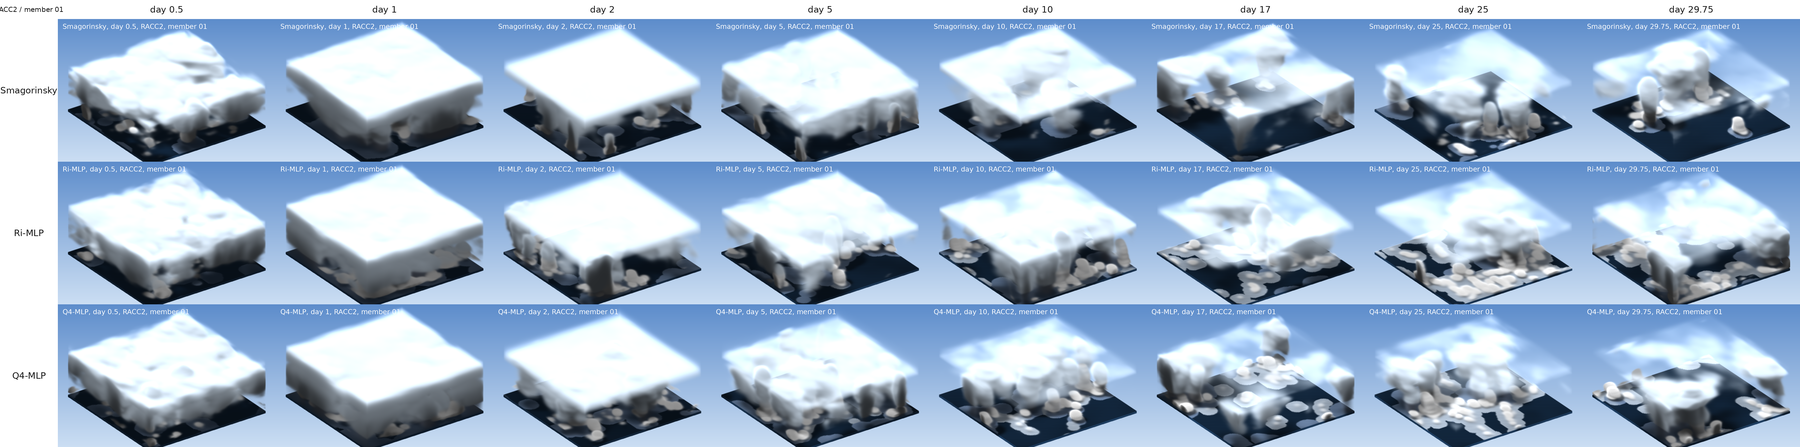
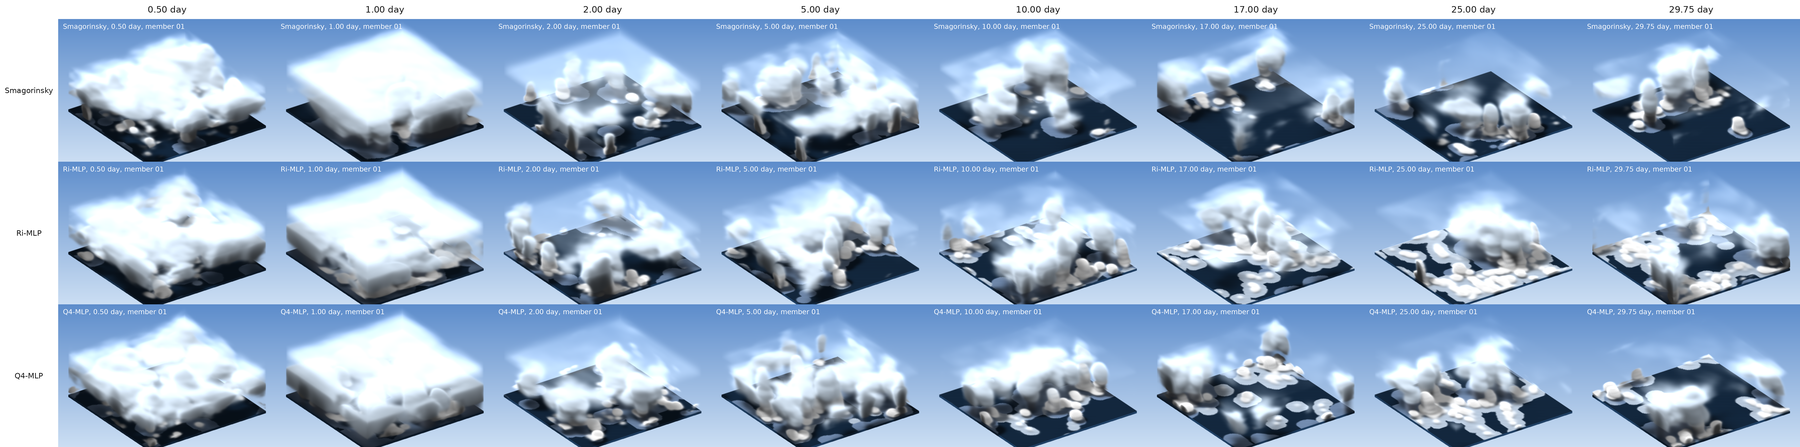
Options to see under anvils and upper decks; stills-only snapshot grids
- --fade-above H / --fade-factor / --fade-depth: condensate above H made
  translucent; --opacity NAME=FACTOR: scale one species' extinction.
  Truncation is --ztop. README section with a four-way comparison.
- --stills-only and --stills-hours: snapshot grid without rendering a movie.
- RCE example grid re-rendered with the deck above 8 km faded (suggested by
  a reader of the AFESP renders: show the detail under the upper deck).
Defaults are unchanged; the RCE regression frame is still byte-identical.

diff --git a/monc_render3d/cli.py b/monc_render3d/cli.py
@@ -20,6 +20,12 @@ def _settings_args(p):
     g.add_argument('--sun-azimuth', type=float, dest='sun_azimuth'); g.add_argument('--sun-elevation', type=float, dest='sun_elevation')
     g.add_argument('--size', type=int, nargs=3, metavar=('W', 'H', 'D'), help='image width, height, depth samples')
     g.add_argument('--no-periodic', action='store_true', help='treat the horizontal boundaries as open')
+    g.add_argument('--fade-above', type=float, dest='fade_above', metavar='H',
+                   help='make condensate above H metres translucent (e.g. an anvil or upper stratus deck)')
+    g.add_argument('--fade-factor', type=float, dest='fade_factor', help='extinction factor above --fade-above (default 0.1)')
+    g.add_argument('--fade-depth', type=float, dest='fade_depth', help='depth of the transition in m (default 1000)')
+    g.add_argument('--opacity', nargs='+', metavar='NAME=FACTOR',
+                   help='scale one species\' extinction, e.g. q_ice_mass=0.2 q_snow_mass=0.2')
     g.add_argument('--species', nargs='+', metavar='NAME[:KEXT]',
                    help=f'condensate fields to render (default: those of {list(SPECIES)} in the file); an unknown '
                         'name needs :KEXT, a mass extinction coefficient in m2/kg')
@@ -27,7 +33,8 @@ def _settings_args(p):
 
 def _settings(args, base=None):
     d = dict(base or {})
-    for k in ('ztop', 'dz', 'nlevels', 'upsample', 'smooth', 'vexag', 'azimuth', 'elevation', 'sun_azimuth', 'sun_elevation'):
+    for k in ('ztop', 'dz', 'nlevels', 'upsample', 'smooth', 'vexag', 'azimuth', 'elevation', 'sun_azimuth', 'sun_elevation',
+              'fade_above', 'fade_factor', 'fade_depth'):
         v = getattr(args, k, None)
         if v is not None:
             d[k] = v
@@ -35,6 +42,11 @@ def _settings(args, base=None):
         d['size'] = args.size
     if getattr(args, 'no_periodic', False):
         d['periodic'] = False
+    if getattr(args, 'opacity', None):
+        d['opacity'] = dict(d.get('opacity') or {})
+        for item in args.opacity:
+            name, _, f = item.partition('=')
+            d['opacity'][name] = float(f)
     s = Settings.from_dict(d)
     if getattr(args, 'species', None):
         sp = {}
@@ -97,6 +109,9 @@ def main(argv=None):
         p.add_argument('--labels', nargs='+', help='panel labels for the --files runs')
         p.add_argument('--title'); p.add_argument('--window', choices=('common', 'union'))
         p.add_argument('--stills-count', type=int, dest='stills_count')
+        p.add_argument('--stills-hours', type=float, nargs='+', dest='stills_hours', help='times of the stills, in hours')
+        p.add_argument('--stills-only', action='store_true', dest='stills_only',
+                       help='render only the stills and the snapshot grid, no movie')
         _settings_args(p)
         if name == 'run':
             p.add_argument('--procs', type=int, default=max(1, mp.cpu_count() // 2))
@@ -131,9 +146,11 @@ def main(argv=None):
             labels = args.labels or [f'run {k + 1}' for k in range(len(args.files))]
             cfg = dict(runs=[dict(key=f'run{k + 1}', label=labels[k] if k < len(labels) else f'run {k + 1}', files=g)
                              for k, g in enumerate(args.files)])
-        for k in ('title', 'window', 'stills_count'):
+        for k in ('title', 'window', 'stills_count', 'stills_hours'):
             if getattr(args, k, None) is not None:
                 cfg[k] = getattr(args, k)
+        if args.stills_only:
+            cfg['stills_only'] = True
         cfg['render'] = _settings(args, cfg.get('render')).to_dict()
         plan(cfg, args.outdir)
         if args.cmd == 'run':

diff --git a/monc_render3d/render.py b/monc_render3d/render.py
@@ -48,6 +48,10 @@ class Settings:
     rho0: float = 1.17            # air density profile rho0 * exp(-z / H) used to weight mixing ratios (kg/m3)
     rho_scale_height: float = 8500.0
     species: dict = field(default_factory=lambda: dict(SPECIES))   # name -> (mass extinction m2/kg, (r, g, b))
+    opacity: dict = field(default_factory=dict)  # name -> factor on that species' extinction (e.g. 0.2 for ice)
+    fade_above: float = None      # height (m) above which all condensate is made translucent ...
+    fade_factor: float = 0.1      # ... by this factor on its extinction ...
+    fade_depth: float = 1000.0    # ... reached linearly over this depth (m); see the README (upper cloud decks)
 
     def resolved(self, zn):
         ztop = float(self.ztop) if self.ztop else float(zn[-1])
@@ -91,10 +95,14 @@ def world(zn, dx, q, s):
     rho = (s.rho0 * np.exp(-zr / s.rho_scale_height)).astype(np.float32)
     wrap = 'grid-wrap' if s.periodic else 'nearest'
     gmode = ('wrap', 'wrap', 'nearest') if s.periodic else ('nearest', 'nearest', 'nearest')
+    if s.fade_above is not None:      # translucent upper levels: extinction tapers to fade_factor above fade_above
+        ramp = np.clip((zr - s.fade_above) / max(s.fade_depth, 1e-6), 0, 1)
+        rho = (rho * (1 - ramp * (1 - s.fade_factor))).astype(np.float32)
     beta = 0.0; tint = 0.0
     for name, (kext, colour) in s.species.items():
         if name not in q:
             continue
+        kext = kext * s.opacity.get(name, 1.0)
         a = q[name][:, :, k0] * (1 - w) + q[name][:, :, k0 + 1] * w
         a = ndimage.zoom(np.clip(a, 0, None), (up, up, 1), order=1, mode=wrap)
         a = ndimage.gaussian_filter(a, (s.smooth * up, s.smooth * up, s.smooth_z), mode=gmode)

diff --git a/monc_render3d/assemble.py b/monc_render3d/assemble.py
@@ -74,14 +74,18 @@ def assemble(outdir, ffmpeg='auto', movie_fps=6, phase_fps=3, gif_scale=0.5, enc
         gif[0].save(OUT / f'{stem}.gif', save_all=True, append_images=gif[1:], duration=int(1000 * gif_every / fps),
                     loop=0, optimize=True)
 
-    movie = P['movie']
-    d = N / 'combined' / 'movie'; d.mkdir(parents=True, exist_ok=True)
-    if not (encode_only and len(list(d.glob('*.png'))) == len(movie)):
+    movie = [] if P.get('stills_only') else P['movie']
+    phases = [] if P.get('stills_only') else P['phases']
+    d = N / 'combined' / 'movie'
+    if movie:
+        d.mkdir(parents=True, exist_ok=True)
+    if movie and not (encode_only and len(list(d.glob('*.png'))) == len(movie)):
         sub = f'{fmt_time(movie[0], unit)} - {fmt_time(movie[-1], unit)}'
         for k, t in enumerate(movie):
             combined(t, sub).save(d / f'{k:05d}.png')
-    write(d, 'movie', movie_fps, 2 if len(movie) > 200 else 1)
-    for ph in P['phases']:
+    if movie:
+        write(d, 'movie', movie_fps, 2 if len(movie) > 200 else 1)
+    for ph in phases:
         d = N / 'combined' / ph['key']; d.mkdir(parents=True, exist_ok=True)
         if not (encode_only and len(list(d.glob('*.png'))) == len(ph['times'])):
             for k, t in enumerate(ph['times']):

diff --git a/monc_render3d/plan.py b/monc_render3d/plan.py
@@ -121,7 +121,8 @@ def plan(config, outdir):
             ts = sorted(v); picks = [ts[int(i)] for i in np.linspace(0, len(ts) - 1, min(12, len(ts)))]
             sample += [v[t] for t in picks]
         s.ztop = auto_ztop(sample, s)
-    need = set(movie) | {t for p in phases for t in p['times']}
+    stills_only = bool(config.get('stills_only'))
+    need = set() if stills_only else set(movie) | {t for p in phases for t in p['times']}
     tag = config.get('tag', '')
     jobs = []
     for r in runs:
@@ -137,7 +138,7 @@ def plan(config, outdir):
                                  label=f'{label}, {fmt_time(t, unit)}{tag}', scale=2.0))
     with MoncFile(next(iter(idx[runs[0]['key']].values()))[0]) as f:
         grid = f.summary()
-    products = dict(title=config.get('title'), tag=tag, runs=[[r['key'], r.get('label', r['key'])] for r in runs],
+    products = dict(title=config.get('title'), tag=tag, stills_only=stills_only, runs=[[r['key'], r.get('label', r['key'])] for r in runs],
                     sources=info, step_s=step, time_unit=unit, movie=movie, phases=phases, stills=stills,
                     settings=s.to_dict(), grid=dict(shape=grid['shape'], dx=grid['dx'], dy=grid['dy'],
                     domain_m=grid['domain_m'], top_m=grid['top_m']),

diff --git a/README.md b/README.md
@@ -14,7 +14,9 @@ or a display, so it runs on login and compute nodes of HPC systems.
 ## Examples
 
 RCE, 64 km x 64 km at 1 km grid spacing, 30 days. Three subgrid closures (Smagorinsky and two machine-learned
-closures) side by side, one ensemble member each, at days 0.5 to 29.75:
+closures) side by side, one ensemble member each, at days 0.5 to 29.75. Condensate above 8 km is faded to 0.1 of
+its extinction (`--fade-above 8000`), so the convection under the anvil shows. On days 0.5 and 1 an opaque layer of
+snow and ice below 8 km fills the domain in all three runs; that is the model state, not the rendering:
 
 ![RCE closure comparison](docs/example_rce_closures_grid.png)
 
@@ -49,6 +51,24 @@ fine), the grid spacing (`x_resolution`, or the options database), the vertical 
 - **Floor:** drawn exactly when a thin floor would alias.
 
 Horizontal boundaries are treated as periodic, as in most MONC set-ups (`--no-periodic` otherwise).
+
+## Seeing under an anvil or upper stratus deck
+
+An optically thick upper cloud deck hides the convection beneath it. Three ways to see underneath:
+
+- **Truncate:** `--ztop H` renders only 0-H m. The default render top is the cloud top found in the data.
+- **Fade:** `--fade-above H --fade-factor F` keeps the whole cloud but scales the extinction above H by F, reached
+  over `--fade-depth` (default 1000 m).
+- **Make species translucent:** `--opacity q_ice_mass=0.15 q_snow_mass=0.15` scales one species' extinction at all
+  heights.
+
+The same keys go in the `render` section of a configuration file.
+
+![Upper-deck options](docs/upper_deck_options.png)
+
+RCE day 25, Smagorinsky, from top left: default; truncated at 8 km; faded above 8 km by 0.1; ice and snow at 0.15
+opacity. Fading keeps the full cloud depth with the deck as a faint veil. Truncation shows the lower cloud most
+clearly but cuts towers flat at H. Species opacity also dims the ice inside convective cores.
 
 ## Install
 
@@ -104,7 +124,8 @@ For repeated or published figures, use a JSON configuration with `--config`. See
 | `phases` | List of `{key, label, start, end}` in seconds, one clip each. |
 | `time_unit` | `auto` (default), `s`, `min`, `h` or `day`, for labels. |
 | `time_regex` | Read the time from the file name instead of opening every file (faster for thousands of single-record files). |
-| `render` | Any render setting: `ztop`, `dz`, `nlevels`, `upsample`, `smooth`, `vexag`, `min_aspect`, `floor`, `azimuth`, `elevation`, `sun_azimuth`, `sun_elevation`, `size`, `periodic`, `species`. |
+| `render` | Any render setting: `ztop`, `dz`, `nlevels`, `upsample`, `smooth`, `vexag`, `min_aspect`, `floor`, `azimuth`, `elevation`, `sun_azimuth`, `sun_elevation`, `size`, `periodic`, `species`, `opacity`, `fade_above`, `fade_factor`, `fade_depth`. |
+| `stills_only` | Render only the stills and the snapshot grid, no movie (`--stills-only`). |
 
 The same settings are command-line options; run `monc-render3d run --help`.
 
